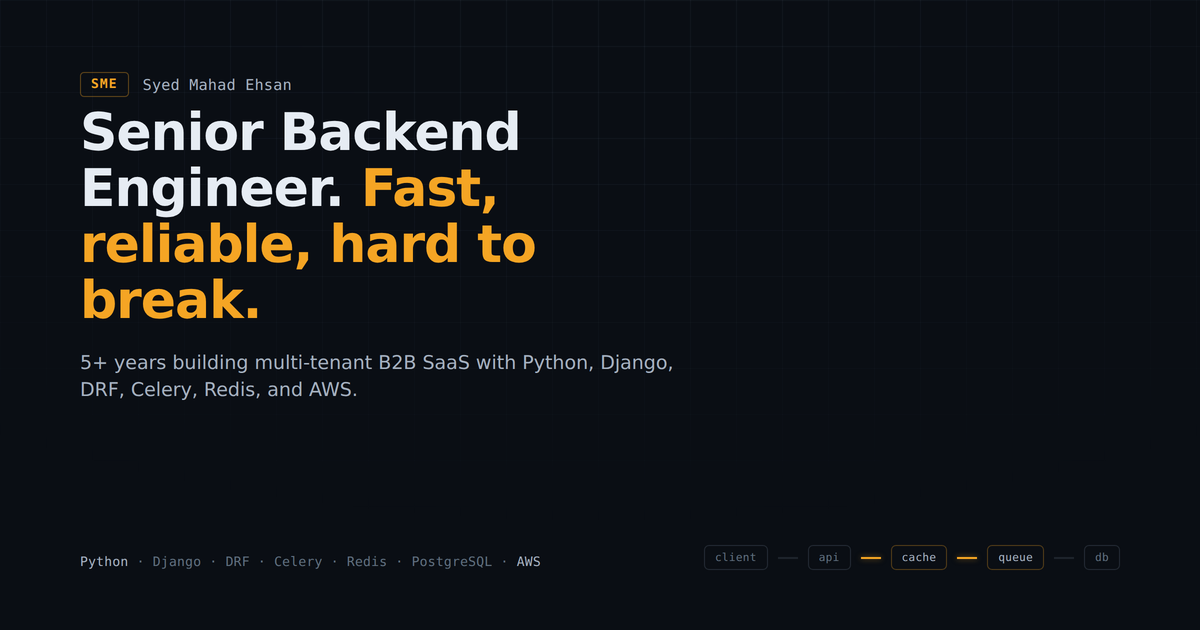
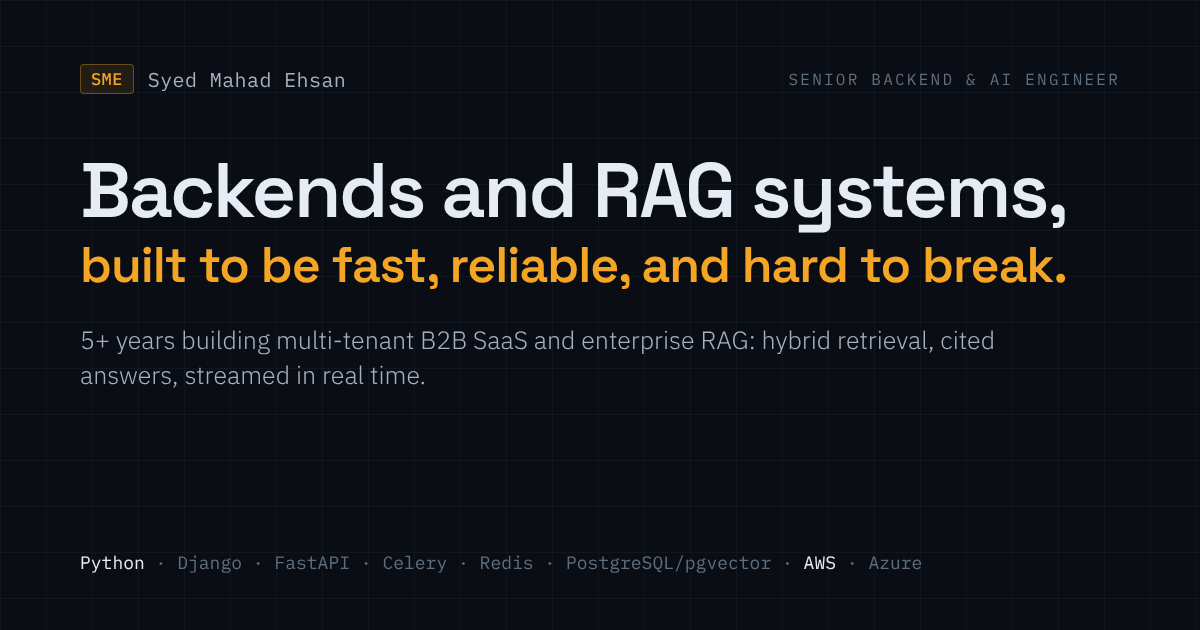
New social card matching the refreshed headline
- images/og-image.png re-rendered: new headline lockup, Senior Backend & AI Engineer, RAG and current stack
- tools/og-image.html added as its source so it can be regenerated

Claude-Session: https://claude.ai/code/session_01KTDxgjsFerYYDJ3HMhBVG4

diff --git a/tools/og-image.html b/tools/og-image.html
@@ -1,0 +1,50 @@
+<!doctype html>
+<!-- Source for images/og-image.png (1200×630). Re-render after headline changes:
+     open this file in a browser at a 1200×630 viewport and screenshot it,
+     or use Playwright: page.set_viewport_size({"width":1200,"height":630}); page.screenshot(path="images/og-image.png") -->
+<html lang="en">
+<head>
+<meta charset="utf-8" />
+<link rel="stylesheet" href="https://fonts.googleapis.com/css2?family=Space+Grotesk:wght@600;700&family=IBM+Plex+Sans:wght@300;400&family=IBM+Plex+Mono:wght@400;500&display=swap" />
+<style>
+  * { box-sizing: border-box; margin: 0; padding: 0 }
+  html, body { width: 1200px; height: 630px; overflow: hidden }
+  body {
+    background: #0A0E14;
+    background-image:
+      linear-gradient(rgba(150,180,220,.05) 1px, transparent 1px),
+      linear-gradient(90deg, rgba(150,180,220,.05) 1px, transparent 1px);
+    background-size: 46px 46px;
+    color: #E6ECF3;
+    font-family: 'IBM Plex Sans', system-ui, sans-serif;
+    padding: 64px 80px 56px;
+    display: flex; flex-direction: column;
+  }
+  .brand { font-family: 'IBM Plex Mono', monospace; font-size: 20px; color: #A5B1C0; display: flex; align-items: center; gap: 14px; letter-spacing: .02em }
+  .tag { color: #F5A524; border: 1px solid rgba(245,165,36,.35); background: rgba(245,165,36,.10); padding: 3px 10px; border-radius: 4px; font-weight: 500; font-size: 17px }
+  .role { margin-left: auto; font-size: 16px; text-transform: uppercase; letter-spacing: .14em; color: #5F6E7E }
+  h1 { font-family: 'Space Grotesk', system-ui, sans-serif; font-weight: 600; margin-top: 58px; width: max-content }
+  h1 span { display: block; white-space: nowrap; width: max-content }
+  .a { line-height: 1; letter-spacing: -0.03em; margin-bottom: 10px }
+  .b { color: #F5A524; line-height: 1.05; letter-spacing: -0.02em; font-size: 50px }
+  .lede { margin-top: 30px; font-size: 25px; font-weight: 300; color: #A5B1C0; max-width: 960px; line-height: 1.4 }
+  .foot { margin-top: auto; display: flex; align-items: center; justify-content: space-between }
+  .stack { font-family: 'IBM Plex Mono', monospace; font-size: 18px; color: #5F6E7E }
+  .stack b { color: #E6ECF3; font-weight: 400 }
+</style>
+</head>
+<body>
+  <div class="brand"><span class="tag">SME</span> Syed Mahad Ehsan <span class="role">Senior Backend &amp; AI Engineer</span></div>
+  <h1><span class="a">Backends and RAG systems,</span><span class="b">built to be fast, reliable, and hard to break.</span></h1>
+  <p class="lede">5+ years building multi-tenant B2B SaaS and enterprise RAG: hybrid retrieval, cited answers, streamed in real time.</p>
+  <div class="foot">
+    <div class="stack"><b>Python</b> · Django · FastAPI · Celery · Redis · PostgreSQL/pgvector · <b>AWS</b> · Azure</div>
+  </div>
+  <script>
+    // scale line 1 so it ends exactly where line 2 does
+    const fit = () => { const a = document.querySelector('.a'), b = document.querySelector('.b');
+      a.style.fontSize = '50px'; a.style.fontSize = (50 * b.getBoundingClientRect().width / a.getBoundingClientRect().width) + 'px'; };
+    (document.fonts ? document.fonts.ready : Promise.resolve()).then(fit); fit();
+  </script>
+</body>
+</html>

diff --git a/README.md b/README.md
@@ -26,6 +26,7 @@ Python script generates the case-study and write-up pages so they share one nav 
 ├── systems/<slug>/index.html   # GENERATED case-study pages
 ├── fixes/<slug>/index.html     # GENERATED fix write-up pages
 ├── tools/build_systems.py      # page + homepage-card generator
+├── tools/og-image.html         # source for the social card; screenshot at 1200×630
 ├── sitemap.xml · robots.txt
 └── images/og-image.png         # social card (1200×630)
 ```
